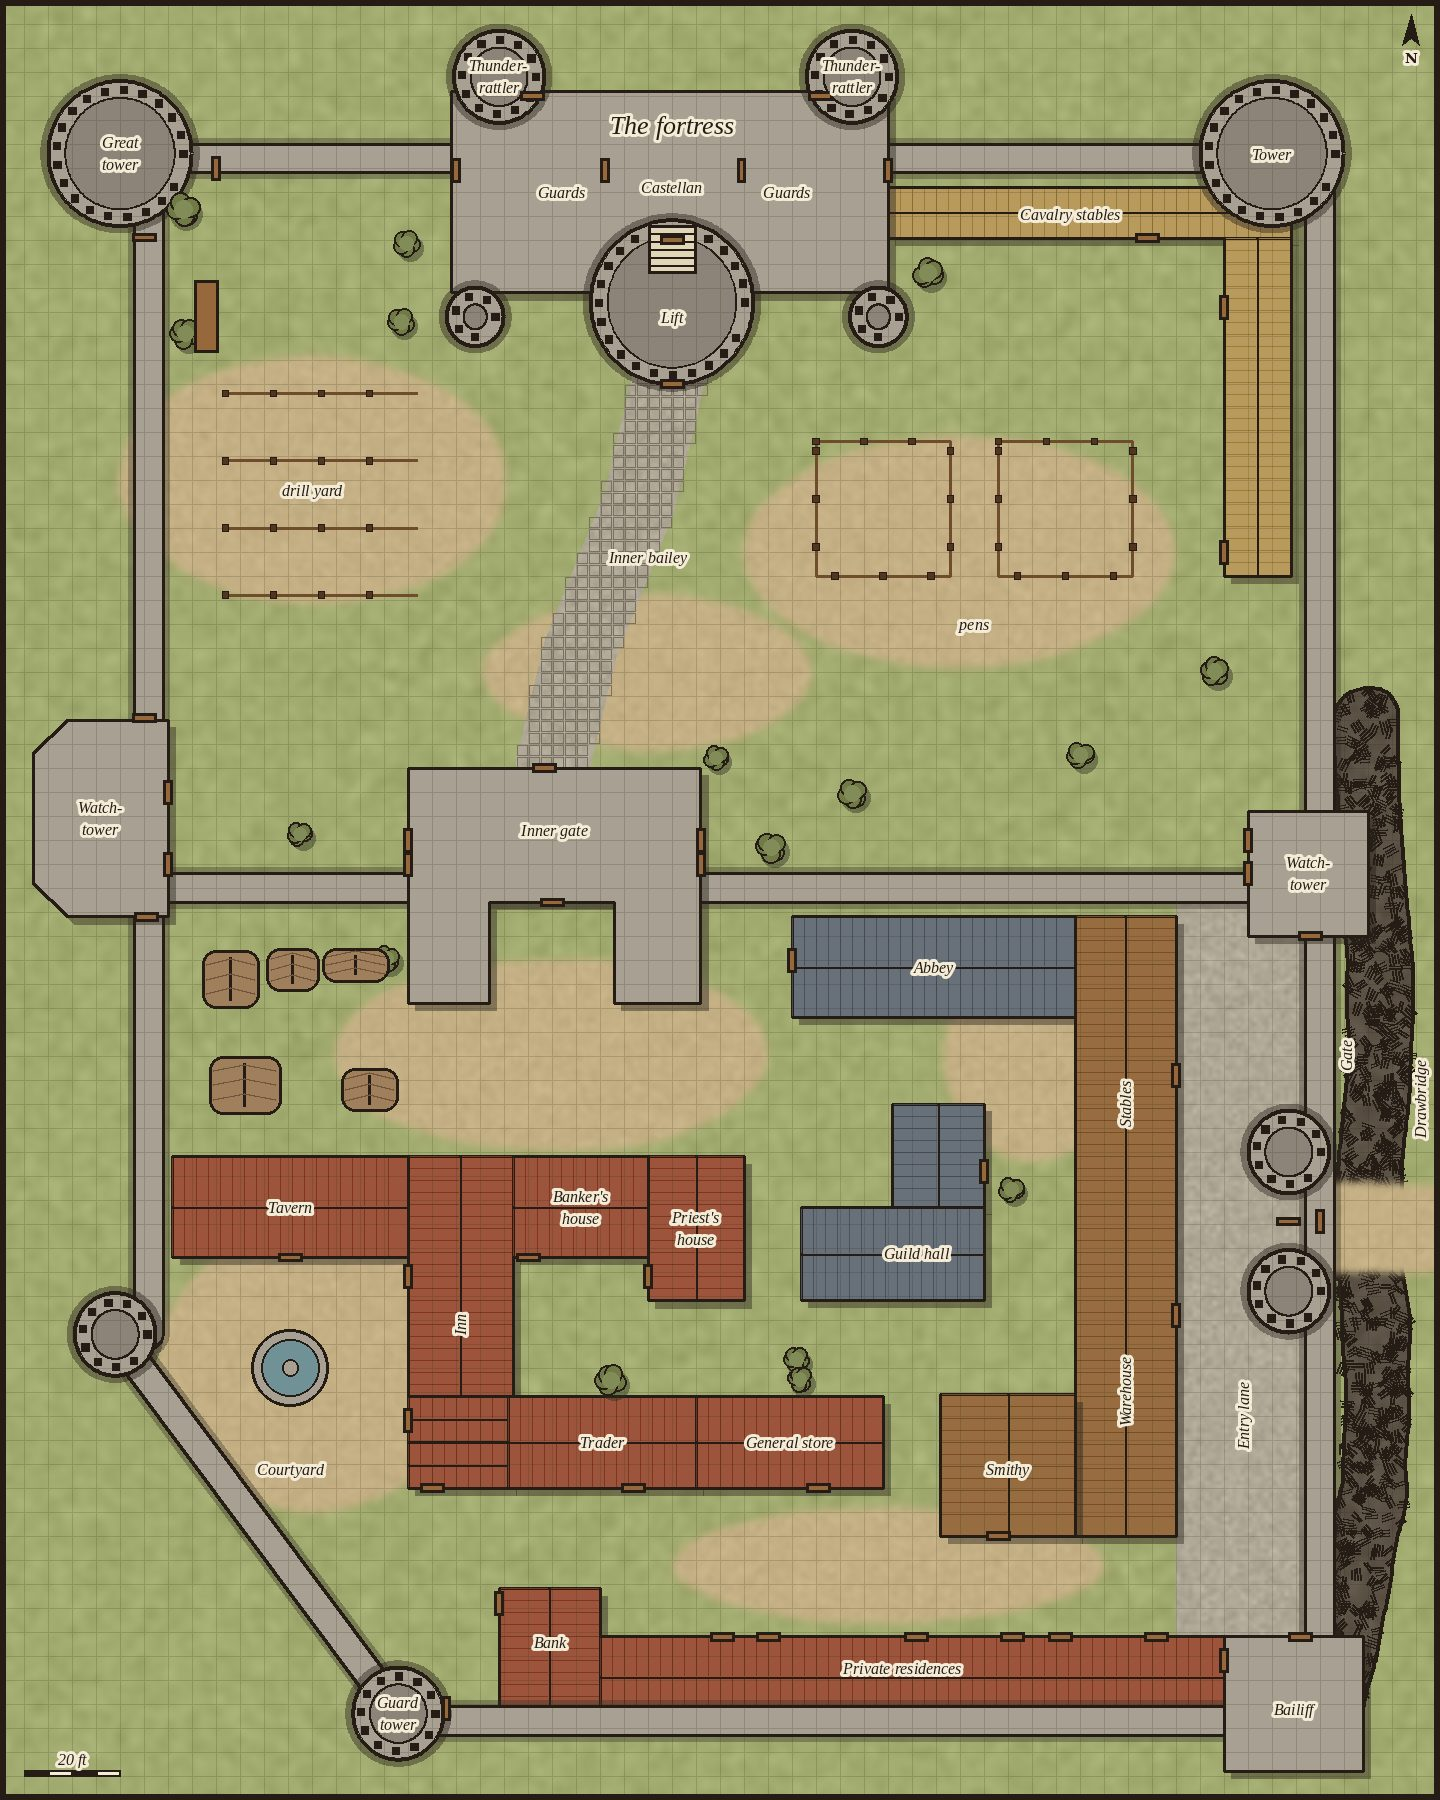
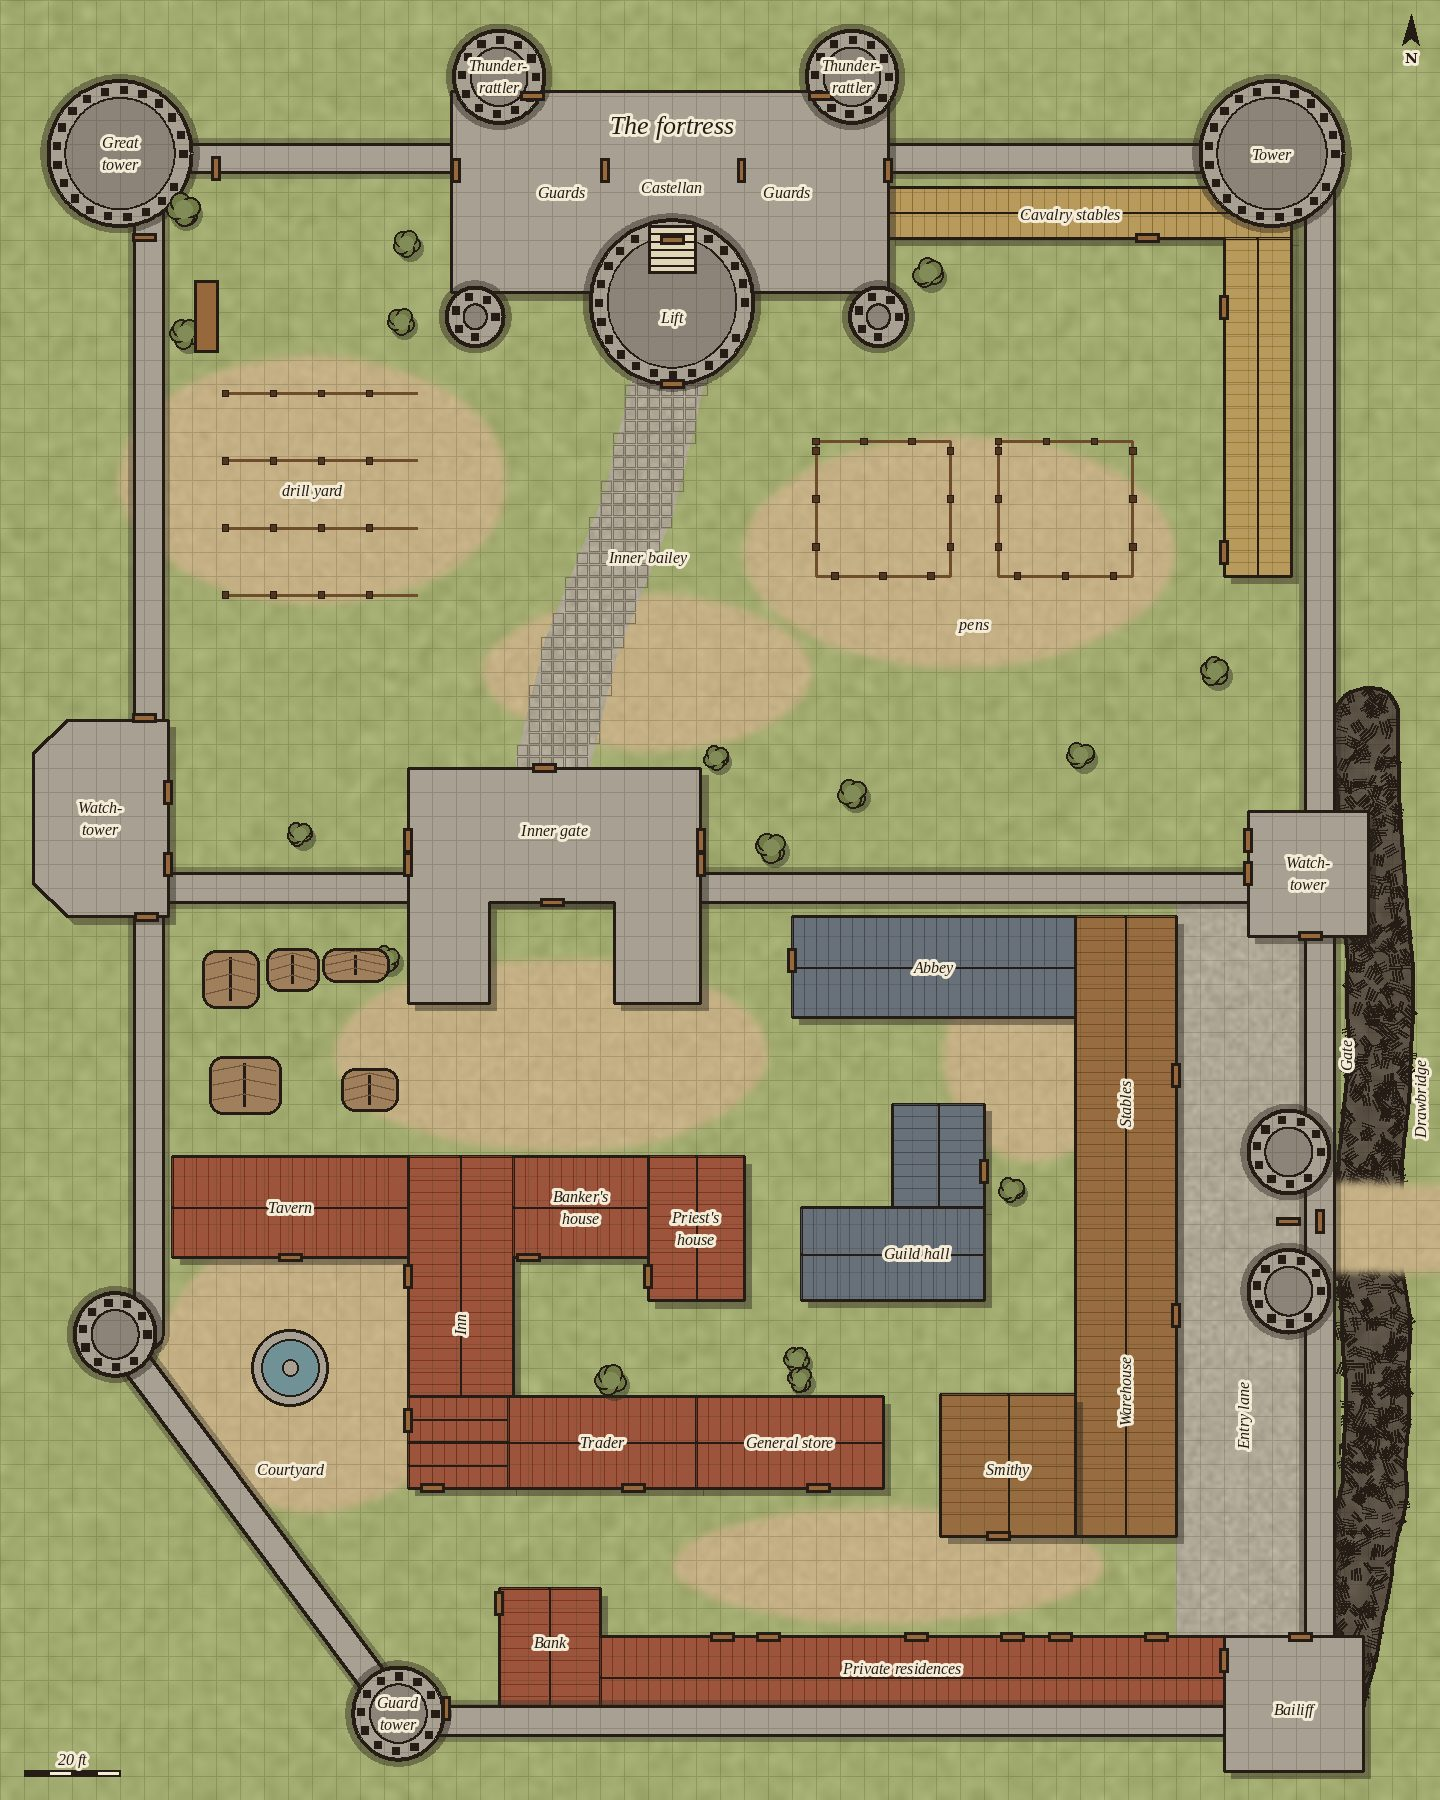
Pale Keep turned 30° counterclockwise on the Atlas so the east wall follows the Bóinn
Claude-Session: https://claude.ai/code/session_01XfHWgpHtgLbquxK218mXG6

Changed region(s): [[0.0, 0.0, 1.0, 1.0]]

diff --git a/modules/isle-of-mists/CHANGELOG.md b/modules/isle-of-mists/CHANGELOG.md
@@ -5,7 +5,7 @@ This module's version is its own. It does not follow the E9 Atlas (`modules/tool
 ## 0.4.13 (2026-11-15)
 
 - The Bóinn at Trim follows Heph's traced bends (module.json `atlas.rivers`, needs Hexmarch #74): it wraps the north and east of the castle, as on the real ground.
-- The Pale Keep is back to north-south with its gate on the east (0.4.12's turn undone), anchored by its drawbridge on Heph's point 53.554802, −6.788648, over the river.
+- The Pale Keep is back to north-south with its gate on the east (0.4.12's turn undone), anchored by its drawbridge on Heph's point 53.554802, −6.788648, over the river, and turned 30° counterclockwise on the Atlas (anchor `rotate` -30) so its east wall follows the Bóinn (Heph). The battle map itself stays square to its grid.
 - Battle maps lose their thick black frame when the build redraws them (Hexmarch #74).
 
 ## 0.4.12 (2026-11-15)
